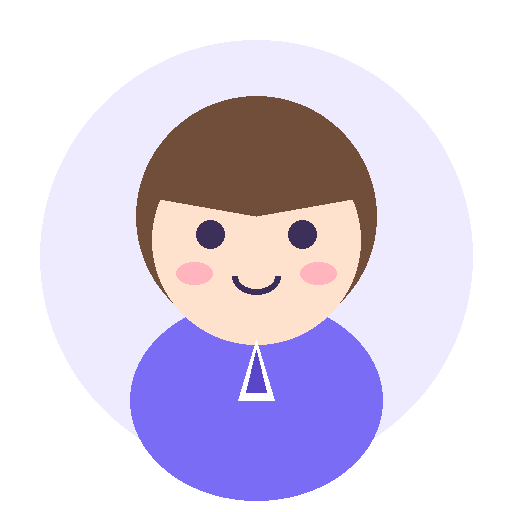
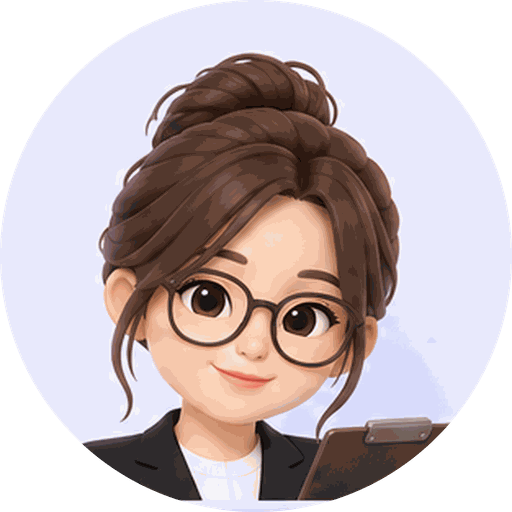
Replace placeholder character images with the team's 루다 expression sheet
- Cut default/smile/think/wink/suit/heart from the 15-expression sheet as
  512px circular portraits, quantized to 256 colours (31-38KB each)
- Keep the source sheet in design/05_캐릭터_표정.png for further cuts
- Update README, CLAUDE.md, roadmap and decisions accordingly

Claude-Session: https://claude.ai/code/session_01P3WvGHkDBnnnTdgRWrSnaS

diff --git a/README.md b/README.md
@@ -11,13 +11,14 @@
 
 - 실제 배포 주소(챗봇 연결됨): https://khu-key-demo-three.vercel.app/ (Vercel 프로덕션 도메인. https://khu-key-demo-khukey.vercel.app/ 도 같은 곳. 팀 계정 khukey, main 푸시마다 자동 배포). 체험 모드 전용 주소: https://zaczam98-art.github.io/khu-key-demo/ (GitHub Pages, 서버 없음).
 
+- 2026-10-27: 캐릭터 자리표시 이미지 6장을 팀 시트의 실제 그림으로 바꿨습니다.
 - 2026-10-26: 홈 배지가 첫 대화 전에도 실제 연결 여부를 보여 줍니다(`GET /api/health`, 크레딧 소모 없음).
 - 2026-10-23 1차 자체 점검: 분류별 체험 카드 9종, 모듈별 늦은 불러오기(첫 로딩 JS 37KB + vendor), 링크 공유 미리보기 메타, 한국어 줄바꿈, 여러 줄 채팅 입력. 자세한 내용은 `docs/decisions.md`.
 - 시안 4장(`design/`)의 40화면이 모두 들어 있습니다. 직무 탐색 10화면, 프로필 구축 10화면(분류 복수 선택 → 인터뷰 → 카드 → 종합 분석 → 미리보기), 자소서 10화면(대화 시작 → 공고 분석 → 경험 매칭·보완 → 초안·첨삭 탭 → 제출 → 다음 단계), 면접 10화면(4갈래 시작 → 설정 → 음성 세션 → 결과 → 상세 피드백 → 합격 엔딩), 그리고 홈·일정·알림.
 - ChatKHU 키와 챗봇 id가 없으면 전부 체험 모드로 돌아갑니다. 대화는 `server/demo/*.json` 대본, 추출·초안·채점·분석은 같은 파일의 예시 결과로 재생되고, 추천 답변이 칩으로 나와 타자 없이 넘길 수 있습니다. 면접의 받아쓰기도 대본 답변으로 대체되고, 질문 읽어 주기는 브라우저 음성으로 됩니다.
 - 디자인: CSS 변수 토큰(밝게·어둡게), 글자 6단계, Lucide 아이콘, 모션 토큰, 화면 전환(View Transitions), 데스크톱 폰 프레임, 첫 진입 닉네임, 공유 카드, 공용 토스트·시트·빈 상태.
 - 체험 모드 배포: https://zaczam98-art.github.io/khu-key-demo/ (서버 없음, main에 합쳐지면 자동 배포)
-- 비어 있는 자리는 둘입니다. `.env.local`의 ChatKHU 키·챗봇 id 4개(STT·TTS도 같은 키), 그리고 `public/char/{default,smile,think,wink,suit,heart}.png` 캐릭터 이미지(지금은 자리표시).
+- 캐릭터 이미지 6장은 팀 시트(`design/05_캐릭터_표정.png`, 표정 15종)에서 잘라 넣었습니다. 다른 표정이 필요하면 같은 시트에서 같은 방식(원형, 512px)으로 잘라 `public/char/`에 추가합니다. 비어 있는 자리는 `.env.local`의 ChatKHU 키·챗봇 id 4개뿐입니다(배포 환경에는 들어가 있음).
 
 ## 실행
 
@@ -73,7 +74,7 @@ src/components  ChatShell, Character, Header, TabBar, Icon(Lucide), ui, Toast, I
 src/screens     home(홈·일정·닉네임), explore(10화면), profile(구축 마법사 10화면 + 카드 상세), essay(시작·목록·추가·상세·문항·다음 단계), mock(시작·설정·세션·결과·상세·기록·엔딩)
 src/lib         db, schema, api, mask, events, dday, nudge, experience, essay, build, profile, push, voice, wav, theme, shareCard, hooks
 src/data        jobs.ts 직무 사전 30개, rubric.ts 면접 채점 기준표
-design/         시안 PNG 4장, copy.md
+design/         시안 PNG 4장, 캐릭터 표정 시트 1장, copy.md
 docs/           chatkhu-api.md, prompts.md, decisions.md, roadmap.md
 .github/        이슈·PR 템플릿, ci.yml(PR 검사), deploy.yml(Pages)
 ```

diff --git a/docs/decisions.md b/docs/decisions.md
@@ -114,3 +114,10 @@
 
 - 프로필 구축 3/5 카드 확인 화면에 "수정하기"가 카드 머리와 하단에 두 번 있습니다. 시안 비례라 두었습니다.
 - `/explore/saved` 를 결과 없이 직접 열어도 저장 완료 화면이 보입니다. 저장 버튼을 거쳐야만 가는 경로라 두었습니다.
+
+## 2026-10-27 (캐릭터 이미지 교체)
+
+- 팀이 만든 루다 표정 시트(15종, `design/05_캐릭터_표정.png`)에서 앱이 쓰는 표정 6개를 잘라 자리표시 PNG 를 바꿨습니다. 짝은 default=기본, smile=기쁜, think=고민하는, wink=응원하는, suit=면접관 버전, heart=칭찬하는입니다.
+- 자르는 방식은 자리표시와 같은 원형 512px 입니다. 시트 배경(연보라)이 그대로 원 안의 바탕이 되고 원 밖은 투명이라, 채팅 아바타의 `rounded-full` 과 시작 화면의 큰 그림 모두 그대로 맞습니다. 머리 위가 원에 닿지 않게 위쪽에 8% 여유를 두었습니다.
+- 서비스 워커가 미리 받는 파일이라 256색 PNG 로 줄여 한 장 31~38KB(여섯 장 합 206KB)입니다. 원본 그대로는 한 장 240~270KB 였습니다.
+- 나머지 표정 9종(설명해주는, 노트북 작업, 아이디어 제안, 놀란, 작성 도와주는, 검색해주는, 완료!, 고민 듣는, 안내하는)은 아직 코드가 쓰지 않아 넣지 않았습니다. 화면마다 표정을 더 나누려면 `Character.tsx` 의 `Expr` 에 이름을 추가하고 같은 방식으로 자릅니다.

diff --git a/docs/roadmap.md b/docs/roadmap.md
@@ -27,7 +27,7 @@
 | 5 | 자소서 10화면(시안 03): 대화 시작 → 공고 분석(탭) → 경험 매칭(추천/추가/새로 찾기) → 경험 보완 시트 → 초안(탭) → 첨삭(탭, Before/After) → 전체 수정 → 완성본·지원 현황 → 제출 → 다음 단계 | 지원 1건 문항 3개 완료 후 제출 | 완료 |
 | 6 | 홈·일정·알림: 선제 메시지 규칙, D-day·우선순위, 일정 추가, 알림 권한·푸시 구독 틀 | 지원 2건으로 홈 메시지 확인 | 완료 (서버 푸시는 VAPID 키 필요) |
 | 7 | 면접 10화면(시안 04): 시작 4갈래 → 설정(유형·연습 방향·자소서 기반) → 음성 세션(녹음·파형·타이머·받아쓰기, 글로 답하기) → 결과 요약 → 상세 피드백(종합/문항별/모범 답안) → 합격 엔딩 | 한 세션 끝까지, 점수마다 근거 인용 | 완료 (STT·TTS는 키 받은 뒤 실측) |
-| 8 | 자료: 캐릭터 이미지 6장 교체 | 자리표시 이미지 전부 교체 | 대기 (팀) |
+| 8 | 자료: 캐릭터 이미지 6장 교체 | 자리표시 이미지 전부 교체 | 완료 (2026-10-27, `design/05_캐릭터_표정.png`) |
 | 9 | 동료가 키와 챗봇 id 4개를 발급하면 환경변수에 넣고 실제 대화·추출·음성 테스트, 지시문 다듬기 | 모듈 4개가 실제 모드로 끝까지 진행 | 대기 (팀) |
 | 10 | 데모 캐시와 증빙 묶음 정리 | 네트워크 없이 시연 재생 | 대기 |
 

diff --git a/CLAUDE.md b/CLAUDE.md
@@ -77,7 +77,7 @@ ChatLog      { id, module, turns:{role, content, at}[] }   // 화면 복원용, 
 - 응답 끝에 `<<EVENT:{"type":"summary_ready"}>>` 같은 태그가 오면 화면 전환 이벤트로 처리하고 말풍선에는 보이지 않게 합니다(스튜디오 챗봇 지시문에 같은 규약을 넣습니다).
 - 대화 로그는 ChatLog에 저장해 새로고침해도 복원.
 
-캐릭터 표정: `public/char/{default,smile,think,wink,suit}.png`. 팀원이 주기 전까지는 같은 크기의 자리표시 이미지를 둡니다.
+캐릭터 표정: `public/char/{default,smile,think,wink,suit,heart}.png`. 팀 시트 `design/05_캐릭터_표정.png`(15종)에서 원형 512px로 잘라 넣었고, 새 표정도 같은 시트에서 같은 방식으로 자릅니다.
 
 ## 7. 디자인 토큰 (시안 기준)
 
